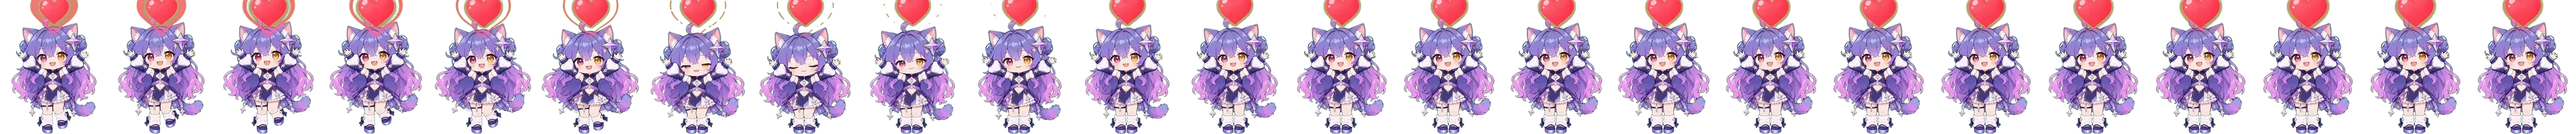
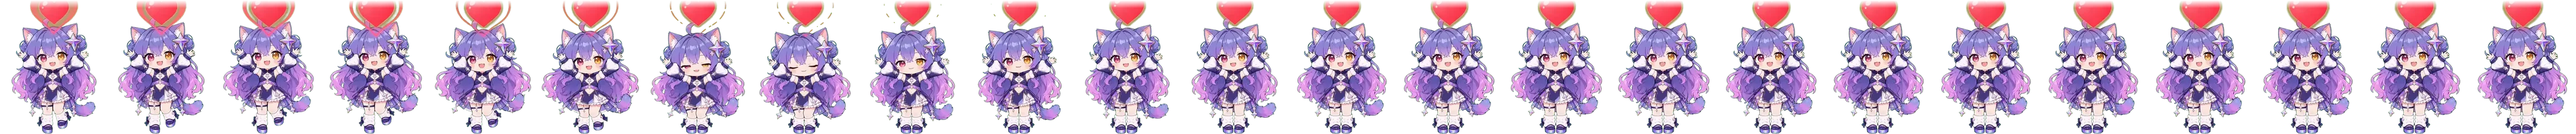
feat(mascot): 越出格子的动作边缘改为渐隐
缩放后超出 48×60 格子的部分，先在格子内侧做 14px 的 alpha 渐变再合成，
音符与爱心淡出而不是被硬边切平；不越界的动作不受影响。

Changed region(s): [[0.0, 0.0, 1.0, 0.0583]]

diff --git a/scripts/build-mascot-sheets.py b/scripts/build-mascot-sheets.py
@@ -37,6 +37,8 @@ COLS, ROWS = 8, 15
 CELL_W, CELL_H = 48, 60
 OUT_W, OUT_H = CELL_W * 4, CELL_H * 4
 TARGET_H = 208
+# How far the art running past the cell fades before the cut.
+EDGE_FADE = 14
 
 
 def sha256(path):
@@ -135,6 +137,24 @@ def seam_score(image, start, frames, box):
     return diff_score(first, last)
 
 
+def edge_mask(size, fade, top, sides):
+    """An alpha ramp on the edges the art runs past: what the cell cuts off fades out first."""
+    width, height = size
+    mask = Image.new('L', size, 255)
+    load = mask.load()
+    for y in range(height):
+        for x in range(width):
+            value = 255
+            if top and y < fade:
+                value = min(value, round(255 * y / fade))
+            if sides and x < fade:
+                value = min(value, round(255 * x / fade))
+            if sides and width - 1 - x < fade:
+                value = min(value, round(255 * (width - 1 - x) / fade))
+            load[x, y] = value
+    return mask
+
+
 def main():
     parser = argparse.ArgumentParser()
     parser.add_argument('--proxy', default=os.environ.get('HTTPS_PROXY') or 'http://127.0.0.1:7897')
@@ -197,16 +217,22 @@ def main():
             fit = min(base, OUT_W / width, OUT_H / height)
             scale = fit * action.get('scale', 1)
             strip = Image.new('RGBA', (frames * OUT_W, OUT_H), (0, 0, 0, 0))
+            w = max(1, round(width * scale))
+            h = max(1, round(height * scale))
+            # Art wider or taller than the cell keeps its centre and ground
+            # line; the edges it runs past fade out before the cell cuts them.
+            left = max(0, (w - OUT_W) // 2)
+            top = max(0, h - OUT_H)
+            piece_size = (min(w, OUT_W), min(h, OUT_H))
+            mask = None
+            if top > 0 or w > OUT_W:
+                mask = edge_mask(piece_size, EDGE_FADE, top > 0, w > OUT_W)
             for index in range(frames):
                 frame = cell(images[key], start + index).crop(box)
-                w = max(1, round(width * scale))
-                h = max(1, round(height * scale))
                 frame = frame.resize((w, h), Image.LANCZOS)
-                # Art wider or taller than the cell keeps its centre and ground
-                # line: the part outside the cell is cut before it goes in.
-                left = max(0, (w - OUT_W) // 2)
-                top = max(0, h - OUT_H)
-                piece = frame.crop((left, top, left + min(w, OUT_W), top + min(h, OUT_H)))
+                piece = frame.crop((left, top, left + piece_size[0], top + piece_size[1]))
+                if mask is not None:
+                    piece.putalpha(ImageChops.multiply(piece.getchannel('A'), mask))
                 strip.alpha_composite(piece, (index * OUT_W + max(0, (OUT_W - w) // 2), max(0, OUT_H - h)))
             path = out_dir / f'{key}.webp'
             strip.save(path, 'WEBP', quality=82, method=6)
